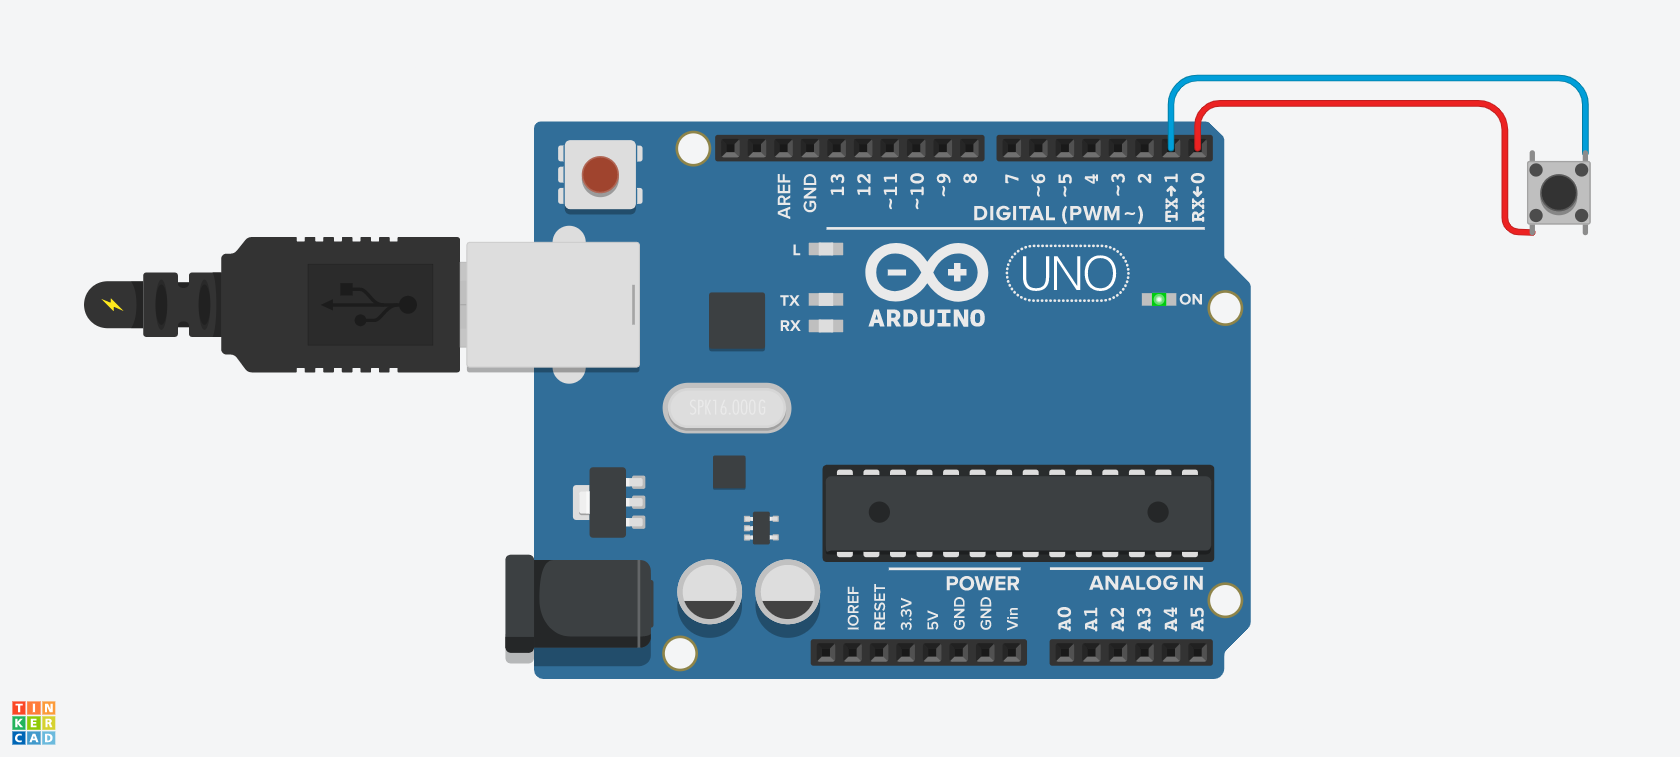
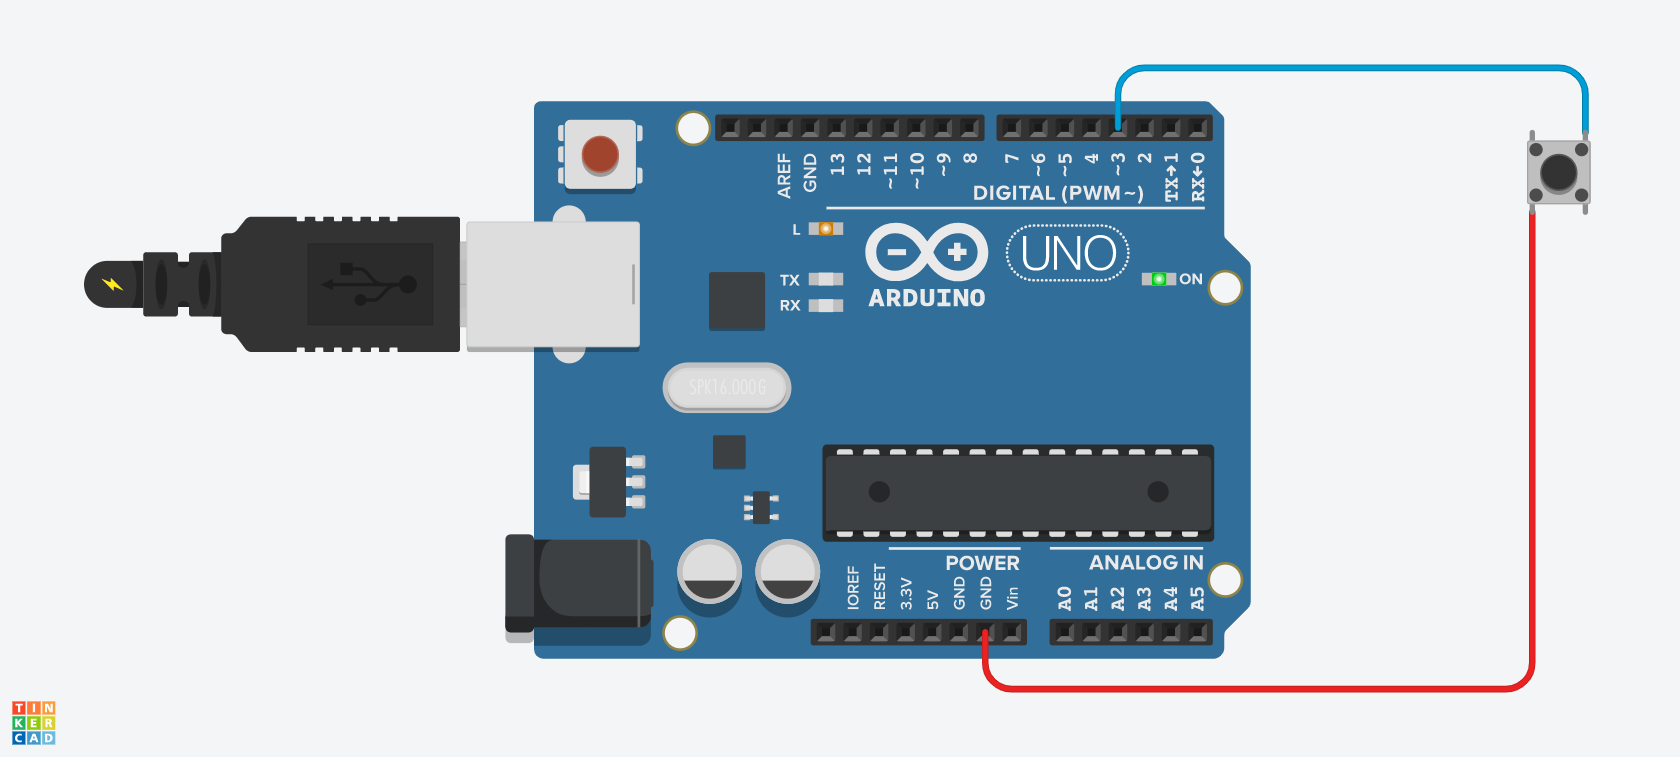
elektronica

Changed region(s): [[0.031, 0.0608, 0.9595, 0.9419]]

diff --git a/Project/02.md b/Project/02.md
@@ -33,18 +33,16 @@ Dit wetende implementeren we al eens een enkele knop, heel rechttoe-rechtaan, in
 
 ![1button](../assets/images/project/1button.png "één knop")
 
-Pin 0 geeft een vaste output `LOW`, pin 1 is de inputpin (met pull up), en we gebruiken de ingebouwde LED om aan te geven of de knop is ingedrukt of niet. De code spreekt voor zich.
+De `GND`-pin (ground) kunnen we interpreteren als een vaste output `LOW`, pin 3 is de inputpin (met pull up), en we gebruiken de ingebouwde LED om aan te geven of de knop is ingedrukt of niet. De code spreekt voor zich.
 
 ```c++
 void setup() {
-  pinMode(0, OUTPUT);
-  digitalWrite(0, LOW);
-  pinMode(1, INPUT_PULLUP);
+  pinMode(3, INPUT_PULLUP);
   pinMode(LED_BUILTIN, OUTPUT);
 }
 
 void loop() {
-  if (digitalRead(1) == LOW) {
+  if (digitalRead(3) == LOW) {
     digitalWrite(LED_BUILTIN, HIGH); //LED on
   } else {
     digitalWrite(LED_BUILTIN, LOW);  //LED off
@@ -52,13 +50,34 @@ void loop() {
 }
 ```
 
-Passen we de output van pin 0 aan naar `HIGH` en testen we of de inputpin `HIGH` detecteert, dan merken we op dat de LED non-stop brandt, met of zonder pull up. Vandaar de nood aan de `INPUT_PULLUP`-modus die zonder extra elektronica bruikbare resultaten geeft.
+We kunnen eventueel ook een andere pin van de Arduino dan de ground gebruiken. Hier stellen we pin 2 in als een pin met vaste output `LOW`, met hetzelfde resultaat. Deze methode zal nuttig blijken verderop, omdat we de outputwaarde van de pin puur softwarematig kunnen wijzigen.
 
-Helaas ligt het probleem van deze methode voor de hand: voor meerdere knoppen kunnen we weliswaar een gemeenschappelijke outputpin gebruiken, maar als elke drukknop met een unieke inputpin dient te worden verbonden, dan hebben we in totaal 65 pinnen nodig voor een 8×8-bord.
+![1button](../assets/images/project/1button2.png "één knop")
+
+```c++
+void setup() {
+  pinMode(2, OUTPUT);
+  digitalWrite(2, LOW);
+  pinMode(3, INPUT_PULLUP);
+  pinMode(LED_BUILTIN, OUTPUT);
+}
+
+void loop() {
+  if (digitalRead(3) == LOW) {
+    digitalWrite(LED_BUILTIN, HIGH); //LED on
+  } else {
+    digitalWrite(LED_BUILTIN, LOW);  //LED off
+  }
+}
+```
+
+Passen we in dit voorbeeld de output aan naar `HIGH` en testen we of de inputpin `HIGH` detecteert, dan merken we op dat de LED non-stop brandt, met of zonder pull up. Vandaar de nood aan de `INPUT_PULLUP`-modus die zonder extra elektronica bruikbare resultaten geeft.
+
+Helaas ligt het probleem van deze methode voor de hand: voor meerdere knoppen kunnen we weliswaar een gemeenschappelijke outputpin gebruiken, maar als elke drukknop met een unieke inputpin dient te worden verbonden, dan hebben we in totaal 64 (+1) pinnen nodig voor een 8×8-bord.
 
 ## Matrix van drukknoppen (II)
 
-Een eerste vereenvoudiging zal het probleem van een kwadratisch aantal pinnen (_n_<sup>2</sup> + 1 voor een _n_×_n_-bord) reduceren naar een lineair aantal (2_n_). Hiervoor verbinden we alle knoppen in een rij van het rooster met eenzelfde outputpin en alle knoppen in een kolom met eenzelfde inputpin, zoals op de figuur.
+Een eerste vereenvoudiging zal het probleem van een kwadratisch aantal pinnen (_n_<sup>2</sup> voor een _n_×_n_-spelbord) reduceren naar een lineair aantal (2_n_). Hiervoor verbinden we alle knoppen in een rij van het rooster met eenzelfde outputpin en alle knoppen in een kolom met eenzelfde inputpin, zoals op de figuur.
 
 ![9buttons](../assets/images/project/9buttons.png "negen knoppen")
 
@@ -74,7 +93,7 @@ void setup() {
   //set pin modes
   for (int n = 0; n < 3; ++n) {
     pinMode(ROWS[n], OUTPUT);
-    digitalWrite(0, HIGH);
+    digitalWrite(ROWS[n], HIGH);
     pinMode(COLS[n], INPUT_PULLUP);
   }
   //allow for output on the console
@@ -101,7 +120,7 @@ void loop() {
 }
 ```
 
-Helaas leidt het voorgestelde procédé nog steeds tot 16 pinnen voor het vooropgestelde spelbord, dus de efficiëntiewinst is nog steeds niet genoeg.
+Helaas leidt het voorgestelde procédé nog steeds tot 16 pinnen voor het vooropgestelde spelbord. Een merkbare efficiëntiewinst, waarmee we nog steeds zo goed als alle pinnen van de Arduino hebben opgebruikt voor enkel drukknoppen. Er moet een elegantere methode bestaan.
 
 ## Matrix van drukknoppen (III)
 
